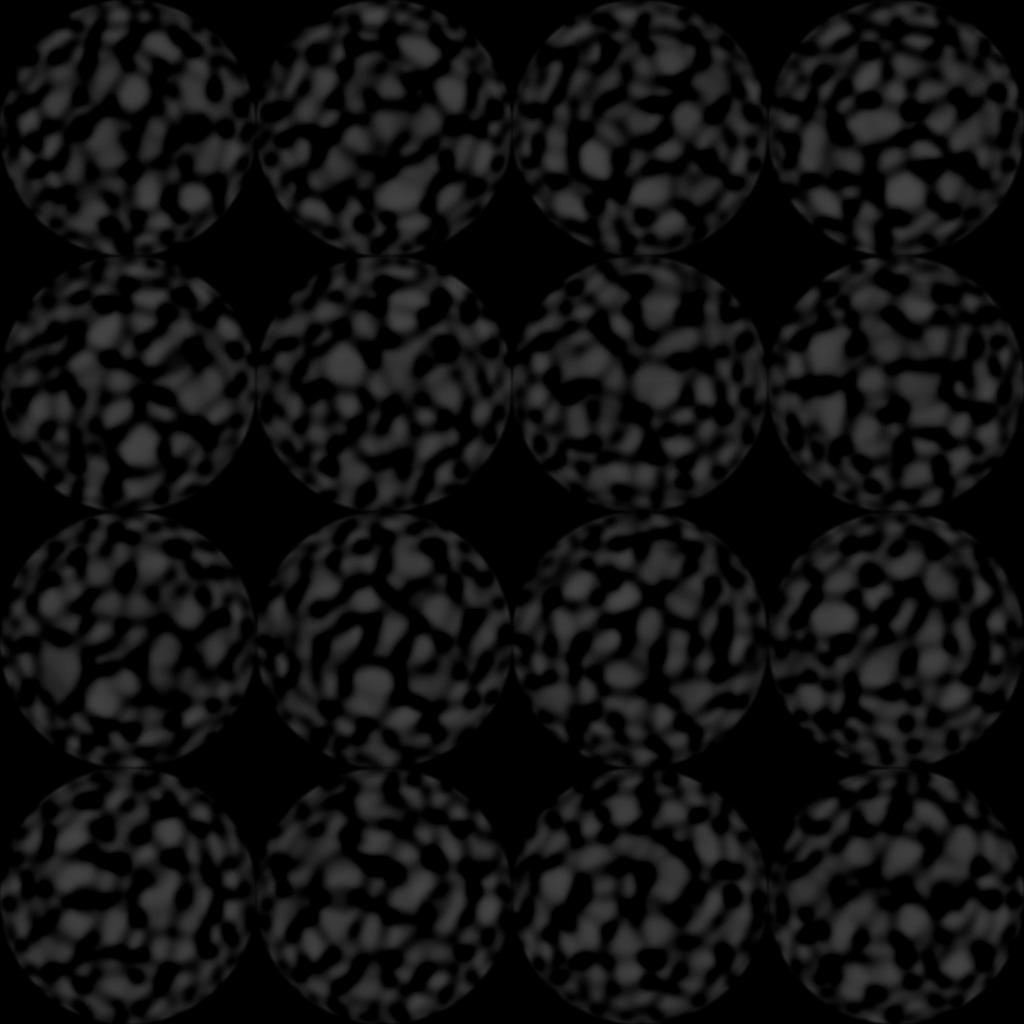
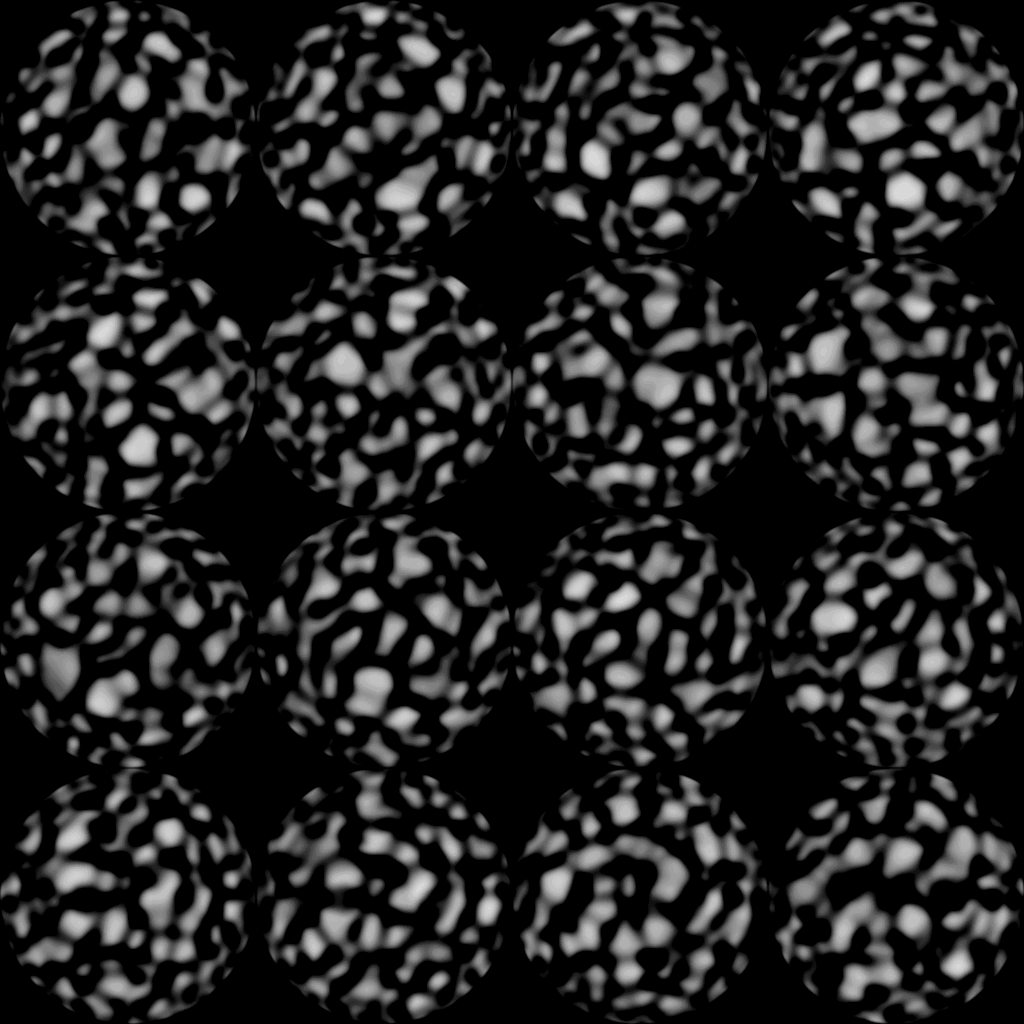
add normal map properties to animated drawable and circle drawable refactored handling of orb shader force state stack clear on game exit

Changed region(s): [[0.0, 0.0, 1.0, 1.0]]

diff --git a/pseuthe/src/GameState.cpp b/pseuthe/src/GameState.cpp
@@ -47,7 +47,7 @@ source distribution.
 namespace
 {
     const int nubbinCount = 19;
-    const std::string version("version 0.6.18");
+    const std::string version("version 0.6.19");
 }
 
 GameState::GameState(StateStack& stateStack, Context context)
@@ -58,11 +58,7 @@ GameState::GameState(StateStack& stateStack, Context context)
     m_gameController    (m_scene, m_messageBus, context.appInstance, m_physWorld)
 {
 
-    m_orbShaderTextured.loadFromMemory(Shader::Orb::vertex, Shader::Orb::fragment);
-    m_orbShaderTextured.setParameter("u_normalMap", context.appInstance.getTexture("assets/images/particles/ball_normal_animated.png"));
-
-    m_orbShaderColoured.loadFromMemory(Shader::Orb::vertex, Shader::Orb::fragment);
-    m_orbShaderColoured.setParameter("u_normalMap", context.appInstance.getTexture("assets/images/particles/ball_normal.png"));
+    m_orbShader.loadFromMemory(Shader::Orb::vertex, Shader::Orb::fragment);
 
     for (int i = 0; i < nubbinCount; ++i)
     {
@@ -154,11 +150,8 @@ void GameState::handleMessage(const Message& msg)
     if (msg.type == Message::Type::Drawable)
     {
         sf::Vector3f lightPos(msg.drawable.lightX, msg.drawable.lightY, 30.f);
-        m_orbShaderTextured.setParameter("u_lightPosition", lightPos);
-        m_orbShaderTextured.setParameter("u_lightIntensity", msg.drawable.lightIntensity);
-
-        m_orbShaderColoured.setParameter("u_lightPosition", lightPos);
-        m_orbShaderColoured.setParameter("u_lightIntensity", msg.drawable.lightIntensity);
+        m_orbShader.setParameter("u_lightPosition", lightPos);
+        m_orbShader.setParameter("u_lightIntensity", msg.drawable.lightIntensity);
     }
 
     m_audioManager.handleMessage(msg);
@@ -176,8 +169,9 @@ Entity::Ptr GameState::createEntity()
     Entity::Ptr e = std::make_unique<Entity>(m_messageBus);
     CircleDrawable::Ptr cd = std::make_unique<CircleDrawable>(size, m_messageBus);
     auto colour = cd->getColour();
-    cd->setShader(m_orbShaderColoured);
-    cd->setTexture(getContext().appInstance.getTexture("assets/images/particles/white.png"));
+    //cd->setShader(m_orbShader);
+    //cd->setTexture(getContext().appInstance.getTexture("assets/images/particles/white.png"));
+    //cd->setNormalMap(getContext().appInstance.getTexture("assets/images/particles/ball_normal.png"));
     e->addComponent<CircleDrawable>(cd);
 
     PhysicsComponent::Ptr pc = m_physWorld.addBody(size);
@@ -206,7 +200,8 @@ Entity::Ptr GameState::createEntity()
     float scale = particleSize / static_cast<float>(drawable->getFrameSize().x);
     drawable->setScale(scale, scale);
     drawable->setColour(colour);
-    drawable->setShader(m_orbShaderTextured);
+    drawable->setShader(m_orbShader);
+    drawable->setNormalMap(getContext().appInstance.getTexture("assets/images/particles/ball_normal_animated.png"));
     e->addComponent<AnimatedDrawable>(drawable);
 
     return std::move(e);

diff --git a/pseuthe/src/CircleDrawable.cpp b/pseuthe/src/CircleDrawable.cpp
@@ -34,24 +34,24 @@ source distribution.
 
 namespace
 {
-    const sf::Uint8 alpha = 100u;
+    const float alpha = 120u;
     const float baseColour = 210.f;
 }
 
 CircleDrawable::CircleDrawable(float radius, MessageBus& m)
     : Component     (m),
     m_circleShape   (radius),
-    m_shader        (nullptr)
+    m_shader        (nullptr),
+    m_normalMap     (nullptr)
 {
     m_circleShape.setOrigin(radius, radius);
-    m_circleShape.setOutlineThickness(1.6f);
+    m_circleShape.setOutlineThickness(1.4f);
 
     float colour = std::min(radius / 50.f, 1.f);
-    colour *= baseColour;
-    sf::Uint8 colourByte = static_cast<sf::Uint8>(colour);
-    sf::Color finalColour(colourByte, colourByte, colourByte);
+    sf::Uint8 colourByte = static_cast<sf::Uint8>(colour * baseColour);
+    sf::Color finalColour(colourByte, colourByte, colourByte, static_cast<sf::Uint8>(colour * 240.f));
     m_circleShape.setOutlineColor(finalColour);
-    finalColour.a = alpha;
+    finalColour.a = static_cast<sf::Uint8>(colour * alpha);
     m_circleShape.setFillColor(finalColour);
 }
 
@@ -84,7 +84,7 @@ void CircleDrawable::handleMessage(const Message& msg)
 void CircleDrawable::setColour(sf::Color colour)
 {
     m_circleShape.setOutlineColor(colour);
-    colour.a = alpha;
+    colour.a = static_cast<sf::Uint8>(alpha);
     m_circleShape.setFillColor(colour);
 }
 
@@ -114,6 +114,10 @@ void CircleDrawable::setTexture(const sf::Texture& t)
     m_circleShape.setTexture(&t, true);
 }
 
+void CircleDrawable::setNormalMap(const sf::Texture& t)
+{
+    m_normalMap = &t;
+}
 
 //private
 void CircleDrawable::draw(sf::RenderTarget& rt, sf::RenderStates states) const
@@ -126,6 +130,7 @@ void CircleDrawable::draw(sf::RenderTarget& rt, sf::RenderStates states) const
     {
         m_shader->setParameter("u_inverseWorldViewMatrix", states.transform.getInverse());
         m_shader->setParameter("u_diffuseMap", sf::Shader::CurrentTexture);
+        m_shader->setParameter("u_normalMap", *m_normalMap);
     }
 
     rt.draw(m_circleShape, states);

diff --git a/pseuthe/src/AnimatedDrawable.cpp b/pseuthe/src/AnimatedDrawable.cpp
@@ -43,6 +43,7 @@ source distribution.
 AnimatedDrawable::AnimatedDrawable(MessageBus& mb)
     : Component     (mb),
     m_shader        (nullptr),
+    m_normalMap     (nullptr),
     m_frameCount    (0u),
     m_currentFrame  (0u),
     m_firstFrame    (0u),
@@ -56,6 +57,7 @@ AnimatedDrawable::AnimatedDrawable(MessageBus& mb, const sf::Texture& t)
     : Component     (mb),
     m_sprite        (t),
     m_shader        (nullptr),
+    m_normalMap     (nullptr),
     m_textureSize   (t.getSize()),
     m_frameSize     (m_textureSize),
     m_frameCount    (0u),
@@ -132,6 +134,11 @@ const sf::Texture* AnimatedDrawable::getTexture() const
 void AnimatedDrawable::setShader(sf::Shader& shader)
 {
     m_shader = &shader;
+}
+
+void AnimatedDrawable::setNormalMap(const sf::Texture& t)
+{
+    m_normalMap = &t;
 }
 
 void AnimatedDrawable::setFrameSize(const sf::Vector2i& size)
@@ -319,6 +326,7 @@ void AnimatedDrawable::draw(sf::RenderTarget& rt, sf::RenderStates states) const
     if (m_shader)
     {
         m_shader->setParameter("u_diffuseMap", *m_sprite.getTexture());
+        m_shader->setParameter("u_normalMap", *m_normalMap);
         m_shader->setParameter("u_inverseWorldViewMatrix", states.transform.getInverse());
     }
     rt.draw(m_sprite, states);

diff --git a/pseuthe/include/AnimatedDrawable.hpp b/pseuthe/include/AnimatedDrawable.hpp
@@ -84,6 +84,7 @@ public:
     void setTexture(const sf::Texture& t);
     const sf::Texture* getTexture() const;
     void setShader(sf::Shader& shader);
+    void setNormalMap(const sf::Texture&);
     void setFrameSize(const sf::Vector2i& size);
     const sf::Vector2i& getFrameSize() const;
     void setFrameCount(sf::Uint8 count);
@@ -113,6 +114,7 @@ private:
 
     sf::Sprite m_sprite;
     sf::Shader* m_shader;
+    const sf::Texture* m_normalMap;
     sf::IntRect m_subRect;
     sf::Vector2u m_textureSize;
     sf::Vector2i m_frameSize;

diff --git a/pseuthe/include/Shaders.hpp b/pseuthe/include/Shaders.hpp
@@ -305,7 +305,7 @@ namespace Shader
             "uniform float u_lightIntensity = 1.0;\n" \
 
             /*TODO make ambient colour match background*/
-            "uniform vec3 u_ambientColour = vec3 (0.3, 0.3, 0.3);\n" \
+            "uniform vec3 u_ambientColour = vec3 (0.2, 0.2, 0.2);\n" \
 
             "varying vec3 v_eyeDirection;\n" \
             "varying vec3 v_lightDirection;\n" \

diff --git a/pseuthe/include/CircleDrawable.hpp b/pseuthe/include/CircleDrawable.hpp
@@ -59,10 +59,13 @@ public:
 
     void setShader(sf::Shader&);
     void setTexture(const sf::Texture&);
+    void setNormalMap(const sf::Texture&);
+
 private:
 
     sf::CircleShape m_circleShape;
     sf::Shader* m_shader;
+    const sf::Texture* m_normalMap;
 
     void draw(sf::RenderTarget& rt, sf::RenderStates states) const override;
 };

diff --git a/pseuthe/include/StateStack.hpp b/pseuthe/include/StateStack.hpp
@@ -79,6 +79,8 @@ public:
 
     sf::View updateView();
 
+    void applyPendingChanges();
+
 private:
 
     struct Pendingchange
@@ -94,7 +96,7 @@ private:
     std::map<States::ID, std::function<State::Ptr()>> m_factories;
 
     State::Ptr createState(States::ID id);
-    void applyPendingChanges();
+
 };
 
 #endif //STATESTACK_HPP_

diff --git a/pseuthe/include/GameState.hpp b/pseuthe/include/GameState.hpp
@@ -70,8 +70,7 @@ private :
     sf::RectangleShape m_vignette;
     sf::Text m_versionText;
 
-    sf::Shader m_orbShaderTextured;
-    sf::Shader m_orbShaderColoured;
+    sf::Shader m_orbShader;
     Entity::Ptr createEntity();
 };
 

diff --git a/pseuthe/src/App.cpp b/pseuthe/src/App.cpp
@@ -121,6 +121,9 @@ void App::run()
 
     saveSettings();
     m_scores.save();
+
+    m_stateStack.clearStates();
+    m_stateStack.applyPendingChanges();
 }
 
 void App::pause()
